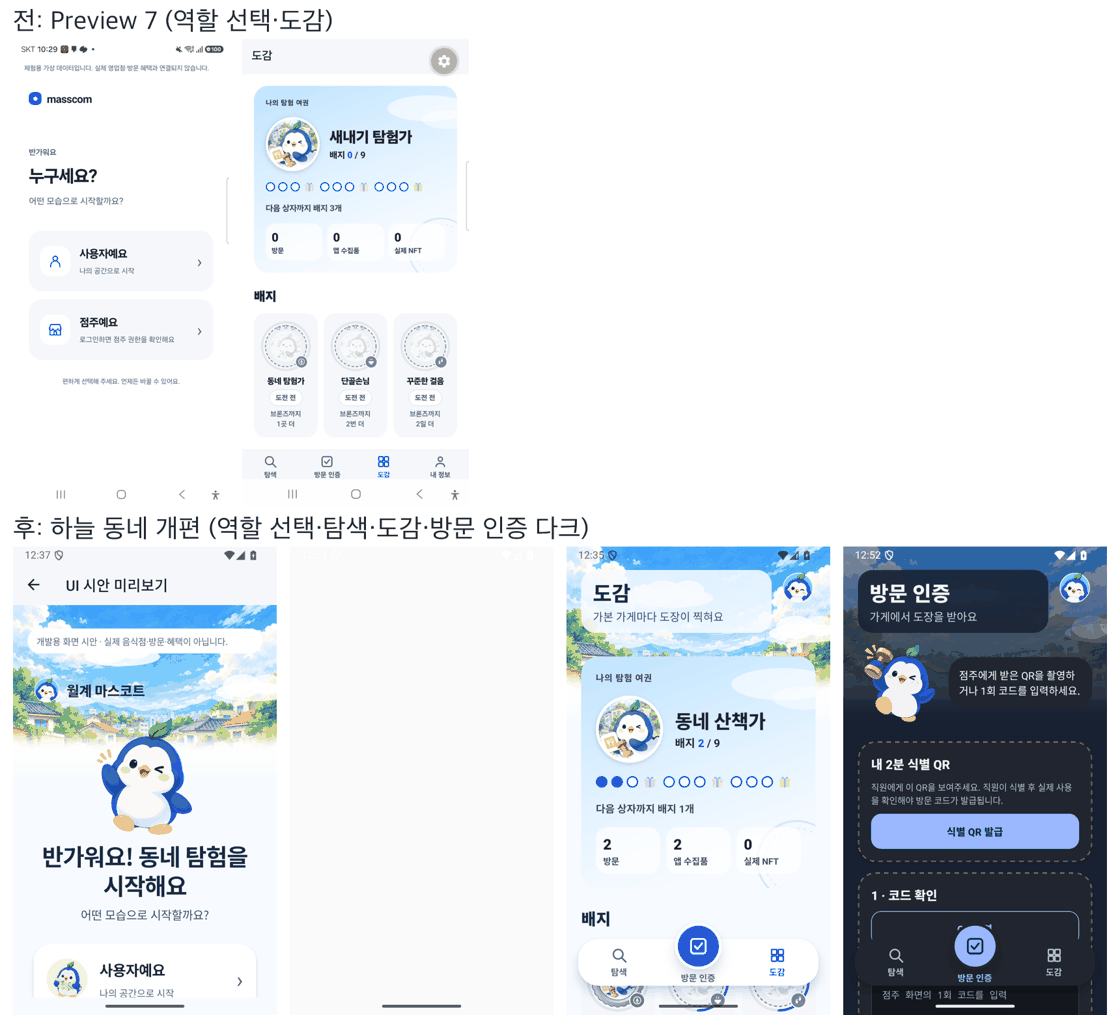
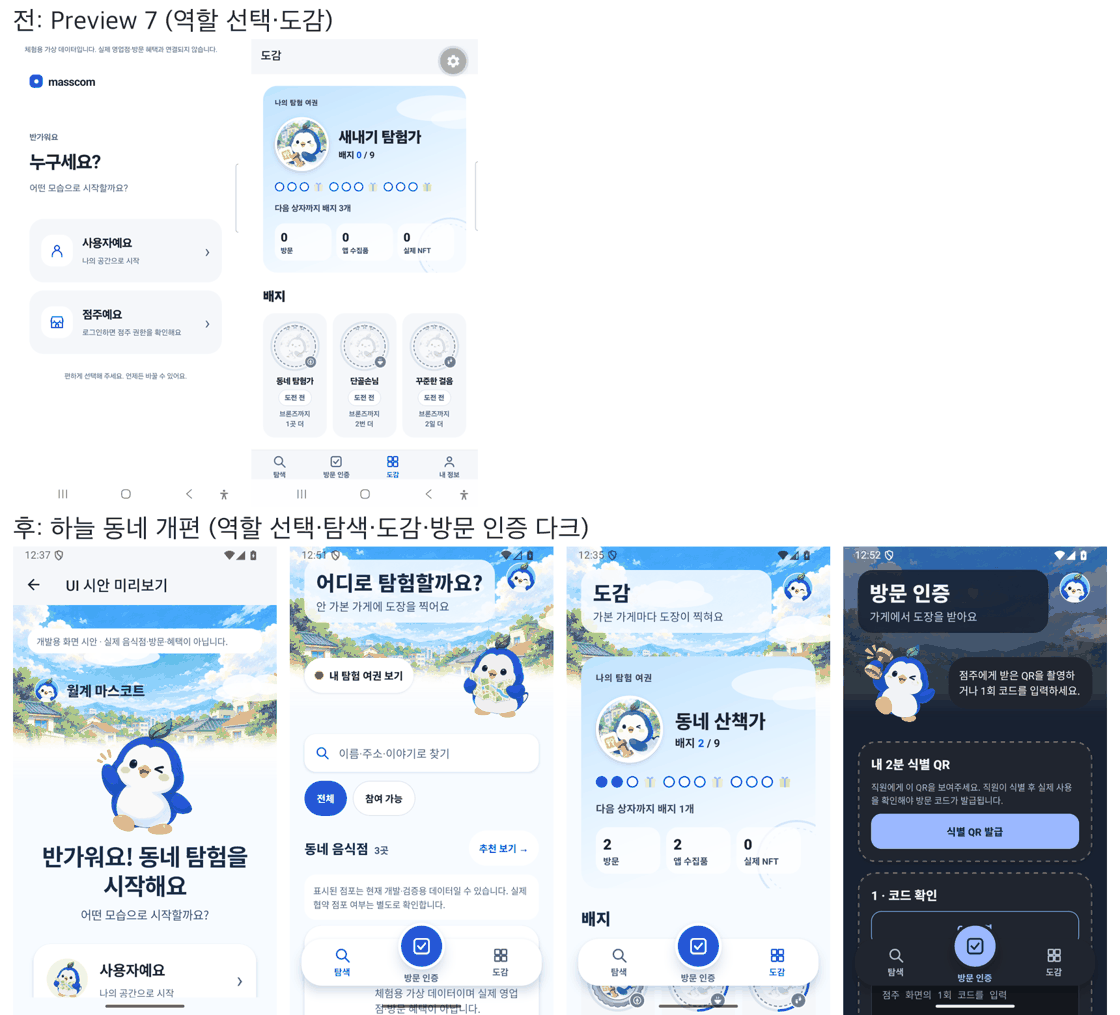
증거 화면을 스크롤 수정 뒤 캡처로 바꾸고 실기기 상태 표시줄을 잘라낸다
Refs #224

Tested: 이미지 9장 육안 확인, README 표와 HANDOFF 문구 갱신

diff --git a/docs/evidence/sky-town-redesign-2026-09-29/README.md b/docs/evidence/sky-town-redesign-2026-09-29/README.md
@@ -16,9 +16,9 @@
 
 | 파일 | 내용 |
 | --- | --- |
-| [01-before-after.png](01-before-after.png) | 전후 비교. 위 "전"은 Preview 7 시점의 역할 선택("누구세요?", 파란 네모 masscom 표식)과 도감(흰 바탕·새내기 탐험가 0/9·탐색/방문 인증/도감/내 정보 네 칸 하단 탭). 아래 "후"는 하늘 동네 개편의 역할 선택 시안·탐색·라이트 도감·다크 방문 인증 네 화면이다. **"후"의 두 번째(탐색) 화면은 빈 흰 화면으로 찍혀 있어 탐색 화면의 근거가 아니다**(02와 같은 현상). "전" 왼쪽 화면 상단에는 실기기의 상태 표시줄(통신사 이름·알림 아이콘)이 함께 찍혀 있다 |
-| [02-explore-light.png](02-explore-light.png) | 라이트 탐색 화면으로 찍으려던 캡처. **실제로는 상태 표시줄 아래가 전부 빈 흰 화면**이고 앱 내용이 없다(파일 2KB). 렌더 전 프레임이 찍힌 것으로 보이며 원인은 확인하지 못했다. 이 이미지는 PASS 근거로 쓰지 않는다 |
-| [03-collection-stamps-light.png](03-collection-stamps-light.png) | 라이트 도감을 스탬프판까지 내린 화면. 위쪽에 반투명 패널 머리글("도감 / 가본 가게마다 도장이 찍혀요")과 계정 아바타가 그림 위에 있다. **스크롤을 내렸는데도 머리글과 그림이 화면 맨 위에 그대로 있어, 그림을 내용과 함께 스크롤하도록 고치기 전(`4e16500` 이전) 구조의 화면으로 보인다.** "스탬프판" 크림 종이 점선 카드에 방문한 가상 점포 A·B의 이중 테두리 원형 도장(안에 이름 앞 두 글자 "가상"), 아직 안 간 칸은 점선 원의 "?". 아래에 떠 있는 탭 바(탐색 · 솟은 방문 인증 도장 버튼 · 도감) |
+| [01-before-after.png](01-before-after.png) | 전후 비교. 위 "전"은 Preview 7 시점의 역할 선택("누구세요?", 파란 네모 masscom 표식, 실기기 상태 표시줄은 잘라냄)과 도감(흰 바탕·새내기 탐험가 0/9·탐색/방문 인증/도감/내 정보 네 칸 하단 탭). 아래 "후"는 하늘 동네 개편의 역할 선택 시안·탐색(스크롤 수정 뒤)·라이트 도감 맨 위·다크 방문 인증 네 화면이다 |
+| [02-explore-light.png](02-explore-light.png) | 라이트 탐색 맨 위(스크롤 수정 뒤). 하늘·동네 그림 위 반투명 패널 머리글("어디로 탐험할까요? / 안 가본 가게에 도장을 찍어요")과 마스코트 아바타, "내 탐험 여권 보기" 칩, 지도를 든 마스코트, 검색창, "전체/참여 가능" 필터, "동네 음식점 3곳"과 "추천 보기", 개발·검증용 데이터 안내, 떠 있는 탭 바 |
+| [03-collection-stamps-light.png](03-collection-stamps-light.png) | 라이트 도감을 스탬프판까지 내린 화면(스크롤 수정 뒤: 그림·머리글은 함께 올라가 보이지 않음). 크림 종이 점선 카드에 방문한 가상 점포 A·B의 이중 테두리 원형 도장(안에 이름 앞 두 글자 "가상"), 아직 안 간 C 칸은 점선 원의 "?"·"아직 안 가봤어요", 아래 "앱에서 받은 수집품" 카드와 떠 있는 탭 바 |
 | [04-collection-top-light.png](04-collection-top-light.png) | 라이트 도감 맨 위. 하늘·동네 그림, 패널 머리글, "나의 탐험 여권" 표지(동네 산책가·배지 2/9·진행 점·방문 2·앱 수집품 2·실제 NFT 0), "배지" 구역의 시작과 떠 있는 탭 바 |
 | [05-claim-dark.png](05-claim-dark.png) | 다크 방문 인증. 밤하늘 그림과 어두운 패널 머리글, 도장을 든 마스코트와 안내 말풍선, 점선 테두리 도장 카드("내 2분 식별 QR"·"식별 QR 발급" 버튼, "1 · 코드 확인"), 다크 탭 바. QR 토큰이 담긴 화면은 아니다 |
 | [06-settings-light.png](06-settings-light.png) | 라이트 내 정보. 낮은 하늘 배너 위 둥근 뒤로 버튼과 "내 정보" 패널 제목, 마스코트 아바타 프로필 카드("내 계정과 방문 기록"), 점주·직원 도구 카드, 개발용 UI 시안 카드. 탭 바는 물러나 있다. 프로필 카드의 계정 표시는 로컬 개발 DEMO 계정의 가운데를 줄인 이름이다 |
@@ -32,8 +32,8 @@
 
 | 항목 | 상태 | 확인 내용 | 폴더 안 화면 |
 | --- | --- | --- | --- |
-| 탐색: 라이트·다크·글자 200% 렌더 | PASS | 하늘 머리글·반투명 패널·떠 있는 점포 카드·탭 바가 겹치거나 잘리지 않음. 글자 200%에서 줄바꿈 | 200%만 [08](08-explore-font200.png). 라이트·다크 100%는 — ([02](02-explore-light.png)는 빈 화면) |
-| 도감: 라이트·다크·글자 200% 렌더 | PASS | 여권 표지·메달·스탬프판, 점포마다 조금씩 기울어진 도장 렌더. 고친 뒤에는 그림이 내용과 함께 스크롤되어 아래로 내리면 머리글이 화면 밖으로 올라감 | [03](03-collection-stamps-light.png)(고치기 전 구조) · [04](04-collection-top-light.png) · [09](09-collection-dark.png)(고친 뒤: 맨 위에 그림이 없음). 200%는 — |
+| 탐색: 라이트·다크·글자 200% 렌더 | PASS | 하늘 머리글·반투명 패널·떠 있는 점포 카드·탭 바가 겹치거나 잘리지 않음. 글자 200%에서 줄바꿈 | 라이트 [02](02-explore-light.png) · 200% [08](08-explore-font200.png). 다크 100%는 — |
+| 도감: 라이트·다크·글자 200% 렌더 | PASS | 여권 표지·메달·스탬프판, 점포마다 조금씩 기울어진 도장 렌더. 그림이 내용과 함께 스크롤되어 아래로 내리면 머리글이 화면 밖으로 올라감 | [03](03-collection-stamps-light.png) · [04](04-collection-top-light.png)(맨 위는 수정 전후 모습이 같음) · [09](09-collection-dark.png). 200%는 — |
 | 방문 인증: 라이트·다크 렌더 | PASS | 도장 카드·마스코트·2분 QR·확인 코드 카드, 탭 바 | 다크 [05](05-claim-dark.png). 라이트는 — |
 | 내 정보 | PASS | 하늘 뒤로 가기 머리글, 프로필 카드, 묶음 설정 카드 | [06](06-settings-light.png) |
 | 역할 선택 시안(개발 빌드) | PASS | 하늘 그림·마스코트·카드 렌더. 파란 네모 표식이 사라짐 | [07](07-role-preview-light.png) |

diff --git a/docs/HANDOFF.md b/docs/HANDOFF.md
@@ -7,7 +7,7 @@
 - 기준 커밋: main `d03665e`(PR #226 병합; 웹 배포 확인 스크립트 수정). 브랜치 `feat/224-sky-town-redesign`(로컬 worktree `.worktrees/224-sky-town`)은 main `758f214`에서 갈라졌고 **아직 원격에 push하지 않았다.** 코드 커밋은 `a964766`까지이고 그 위에 문서 커밋이 하나 있다. main이 그 사이 `README.md`·`TEST_STATUS.md`·`PROJECT_STATE.md`·`HANDOFF.md`·`AI_USAGE.md`에 Preview 7 내용을 더해 같은 자리에서 문서 충돌이 날 수 있다. PR 전에 main을 병합하고 두 쪽 문단을 모두 남겨라.
 - 내용: 앱 디자인을 하늘 동네 + 여권 도장으로 개편(D-045). 하늘 그림·구름이 머리글 안에서 내용과 함께 스크롤되고, 카드는 떠 있으며, 하단 탭은 `탐색 · 방문 인증(가운데 도장) · 도감` 세 칸(내 정보는 머리글 아바타), 도감은 도장이 찍히는 여권 페이지다. 마스코트 포즈 10종과 배경 2종은 Codex 내장 이미지 생성으로 만들어 `apps/mobile/assets/images/mascot/v2/`에 두었다(출처 `SOURCES.md`). 값·구조의 정본은 `theme/world.ts`·`src/ui/`·`src/motion/`이고 [`DESIGN.md`](../DESIGN.md)와 [스펙 10절](superpowers/specs/2026-09-29-sky-town-redesign-design.md)이 구현 중 바뀐 점을 정리한다. D-046 지도·D-047 친구·D-048 사장님 AI 시안은 [결정 기록](DECISIONS.md)에만 있고 코드는 없다.
 - 검증: 모바일 347/347, 타입·린트·운영/시연 두 export PASS(작업 보고), [에뮬레이터 로컬 확인](evidence/sky-town-redesign-2026-09-29/README.md). 필수 36개 상태는 31 PASS / 2 BLOCKED / 3 NOT_RUN 그대로다. 독립 리뷰(sonnet 코드·opus 디자인·접근성)는 진행 중이며 결과는 이 문서에 반영하지 않았다.
-- 알려진 증거 공백: 증거 폴더의 `02-explore-light.png`와 `01-before-after.png`의 두 번째 "후" 화면은 빈 흰 화면이고, `03-collection-stamps-light.png`는 스크롤 구조를 고치기 전 화면이다. 유효한 탐색 라이트·다크 캡처를 다시 찍거나 정리하고 PR을 연다. 01의 "전" 왼쪽 화면에는 실기기 상태 표시줄(통신사 이름·알림 아이콘)이 찍혀 있어 잘라 내는 편이 안전하다.
+- 증거 정리: 빈 화면이던 `02`와 `01`의 탐색 칸, 스크롤 수정 전이던 `03`을 스크롤 수정 뒤 캡처로 교체했고 `01`의 실기기 상태 표시줄은 잘라냈다. 다크 탐색 100%와 글자 200% 도감은 폴더 안 이미지가 없다.
 - 다음 작업: ① 리뷰 🔴 0 확인 → main 병합·충돌 해결 → `bash scripts/check-pr-korean.sh`로 PR 제목·본문 검사 → PR·CI·병합. ② 병합 뒤 시연 Preview 8 APK를 빌드하고 실제 휴대전화(SM-S928N)에서 전후 화면·TalkBack·동작 줄이기·점포 그림이 있는 점포 상세를 확인(소유자의 "꾸민 느낌" 판정 요청). ③ 하위 프로젝트 2 지도(D-046): `town-map` 일러스트 지도와 네이버·카카오맵 길찾기, 탭 바 `지도` 추가. 이후 친구(D-047)와 사장님 AI 시안(D-048)은 각각 별도 Issue·설계 뒤에 진행하며 D-048의 OpenAI 키는 소유자가 서버 비밀 파일에 넣는다.
 - 웹 전용 재배포 기록(PR #226 이후): main `d03665e`로 웹만 다시 배포해 공개 `/open`이 Preview 7 설치 안내를 보이게 했고 apex와 `www` 모두 확인했다. API·DB 컨테이너는 바꾸지 않았다. 배포 담당 작업자의 보고를 옮긴 것이며 별도 증거 JSON은 이 브랜치에 없다.
 
